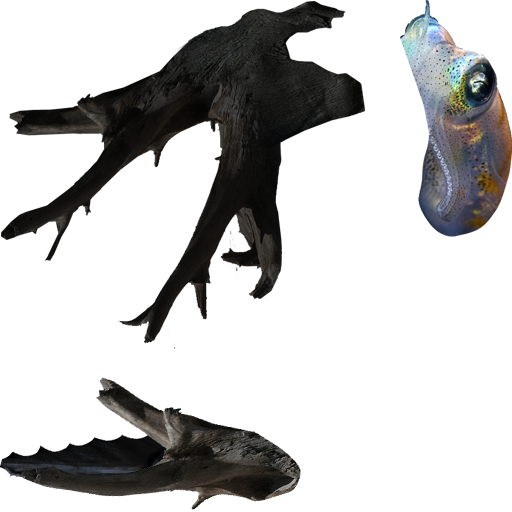
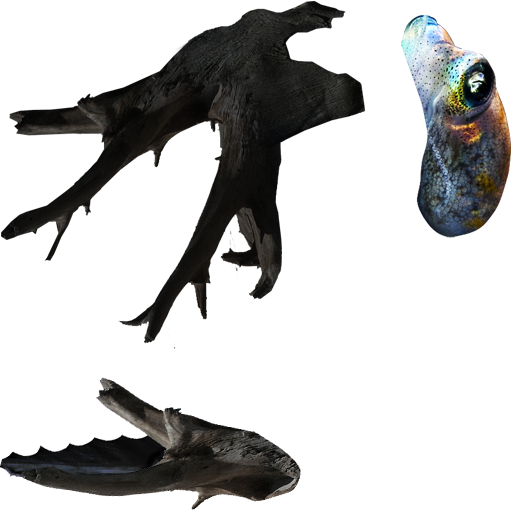
"Ram attack" for moloch, endworm attack tweaking, improved watcher sprite

Changed region(s): [[0.7812, 0.0, 1.0, 0.4688]]

diff --git a/Subsurface/Source/Characters/AI/EnemyAIController.cs b/Subsurface/Source/Characters/AI/EnemyAIController.cs
@@ -345,6 +345,23 @@ namespace Barotrauma
                     steeringManager.SteeringSeek(attackPosition + (limb.SimPosition-SimPosition), 5.0f);
 
                     break;
+                case AttackType.Hit:
+                    damageTarget = (wallAttackPos != Vector2.Zero && targetEntity != null) ? targetEntity : selectedAiTarget.Entity as IDamageable;
+                                        
+                    if (damageTarget == null)
+                    {
+                        attackTimer = limb.attack.Duration;
+                        break;
+                    }
+
+                    if (ConvertUnits.ToDisplayUnits(Vector2.Distance(limb.SimPosition, attackPosition)) < limb.attack.Range)
+                    {
+                        attackTimer += deltaTime;
+                        limb.body.ApplyForce(limb.Mass * limb.attack.Force * Vector2.Normalize(attackPosition - limb.SimPosition));
+                    }
+                    
+                    steeringManager.SteeringSeek(attackPosition + (limb.SimPosition-SimPosition), 5.0f);
+                    break;
                 default:
                     attackTimer = limb.attack.Duration;
                     break;

diff --git a/Subsurface/Source/Characters/Attack.cs b/Subsurface/Source/Characters/Attack.cs
@@ -15,7 +15,7 @@ namespace Barotrauma
 
     public enum AttackType
     {
-        None, PinchCW, PinchCCW
+        None, PinchCW, PinchCCW, Hit
     }
 
     struct AttackResult
@@ -46,6 +46,8 @@ namespace Barotrauma
         private readonly float structureDamage;
         private readonly float damage;
         private readonly float bleedingDamage;
+
+        public readonly float Force;
 
         private Sound sound;
 
@@ -100,6 +102,8 @@ namespace Barotrauma
             damage = ToolBox.GetAttributeFloat(element, "damage", 0.0f);
             structureDamage = ToolBox.GetAttributeFloat(element, "structuredamage", 0.0f);
             bleedingDamage = ToolBox.GetAttributeFloat(element, "bleedingdamage", 0.0f);
+
+            Force = ToolBox.GetAttributeFloat(element,"force", 0.0f);
 
             Stun = ToolBox.GetAttributeFloat(element, "stun", 0.0f);
 
